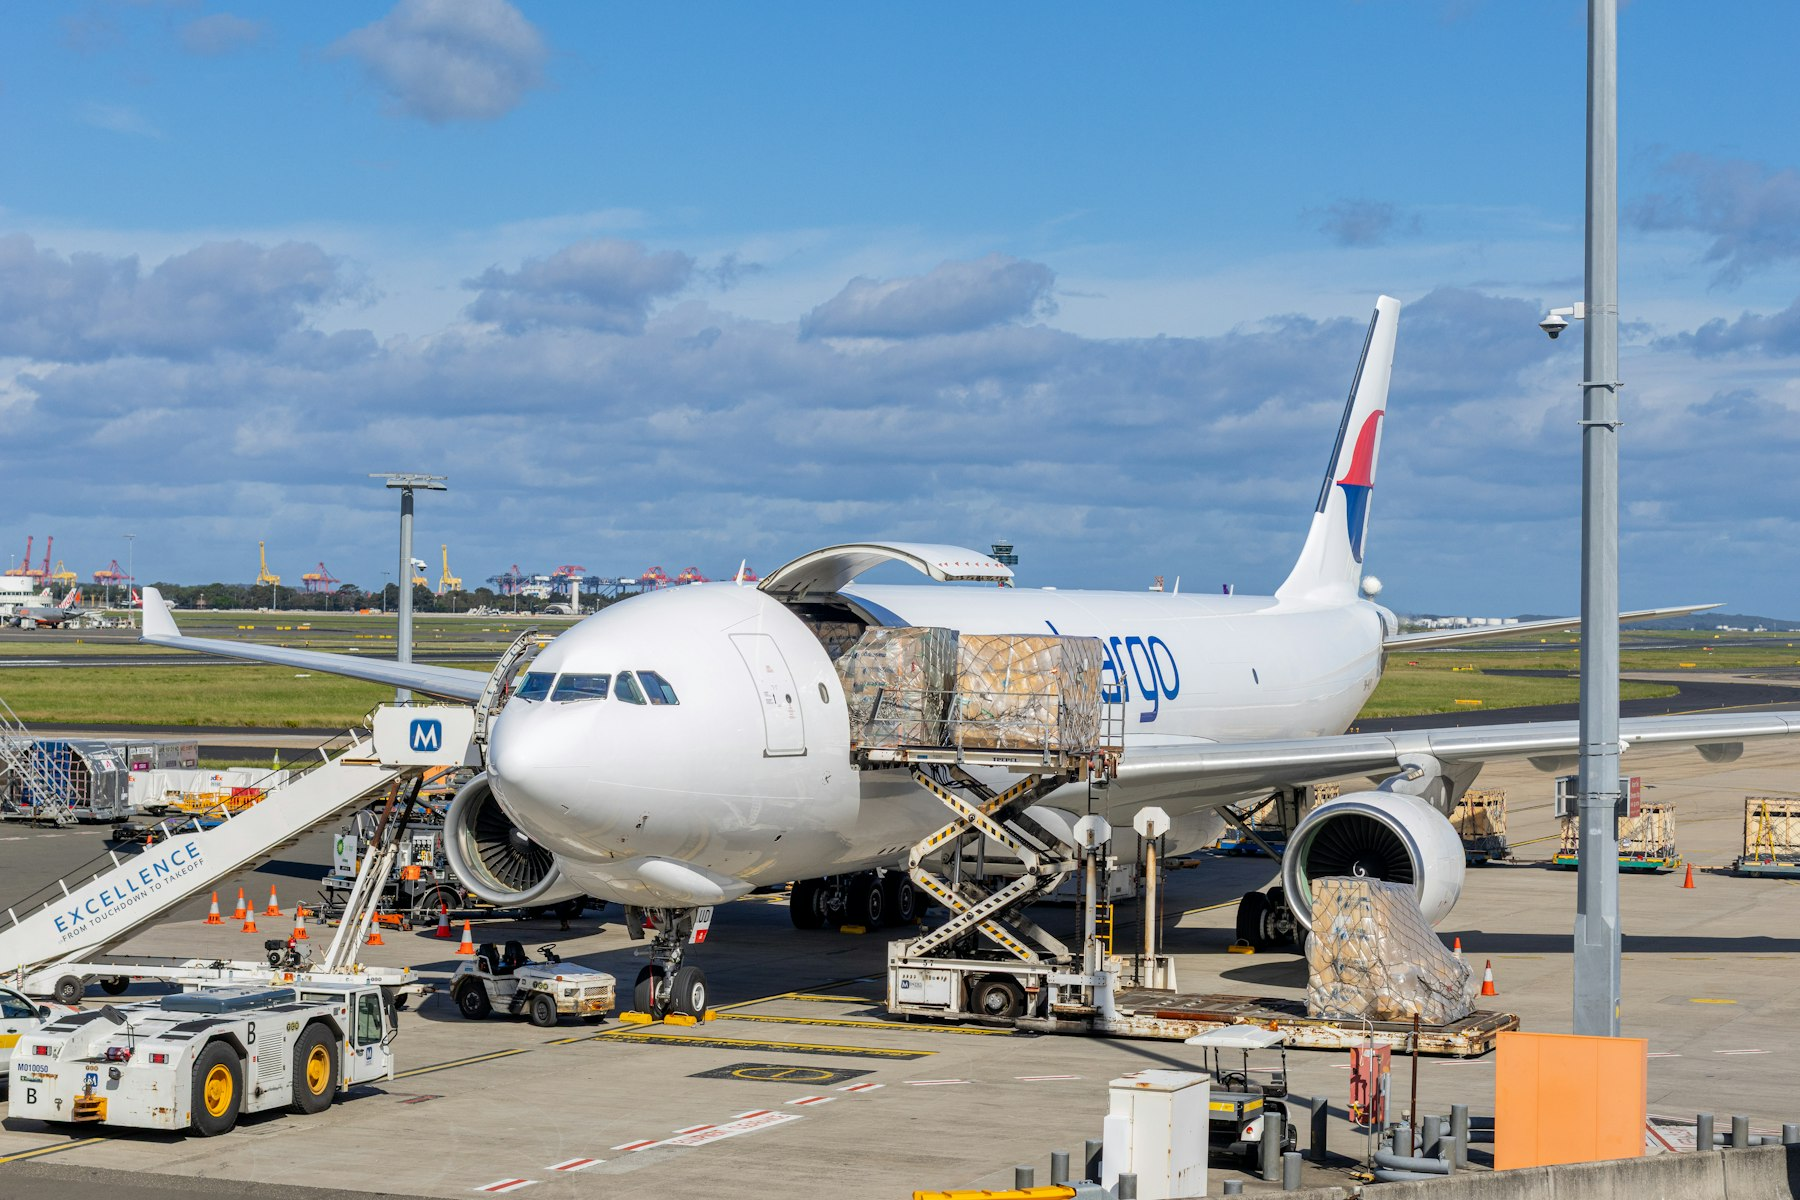
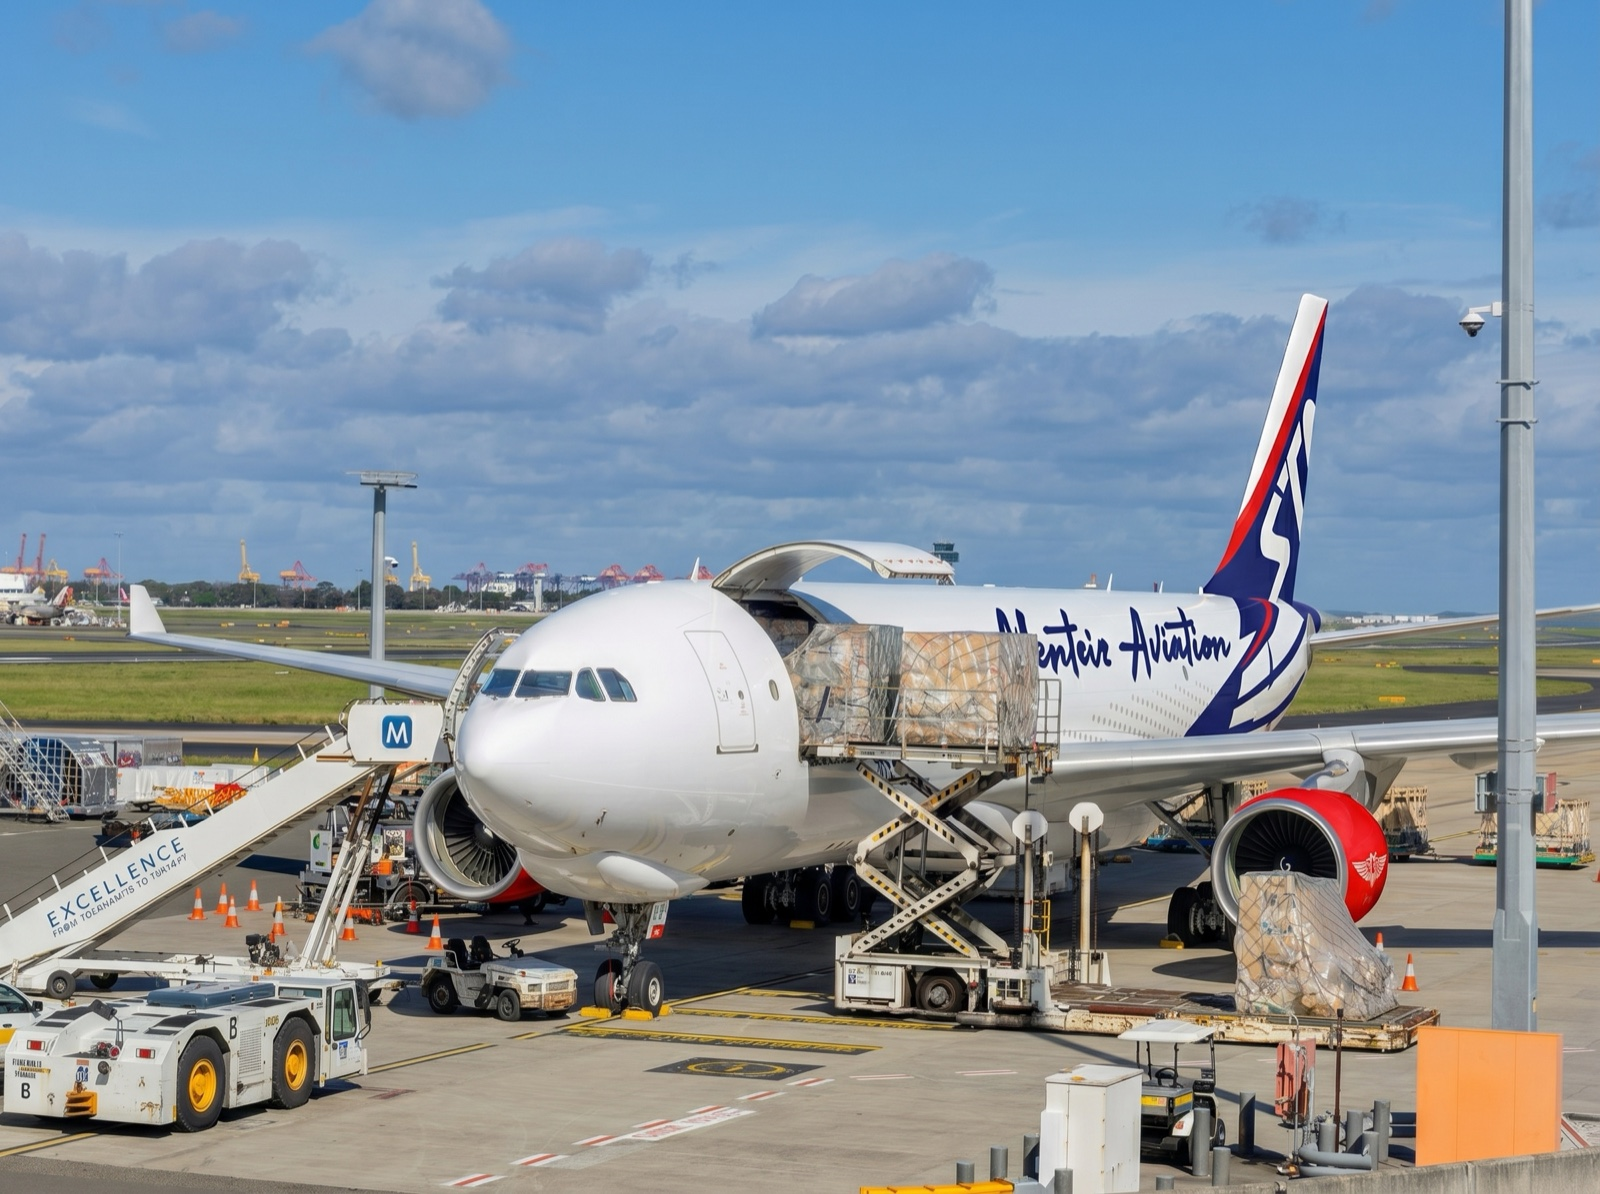
About: update hero to Menteiz freighter cargo-loading photo

diff --git a/about.html b/about.html
@@ -87,7 +87,7 @@
         <span class="ap-hero__corner ap-hero__corner--tr"></span>
         <span class="ap-hero__corner ap-hero__corner--bl"></span>
         <span class="ap-hero__corner ap-hero__corner--br"></span>
-        <img src="about-hero.jpg" alt="Cargo plane being loaded at an airport tarmac" />
+        <img src="about-hero.jpg" alt="Menteiz Aviation freighter being loaded with cargo on the apron" />
         <span class="ap-hero__pin">N 03&deg;08&prime;20&Prime; / E 101&deg;41&prime;50&Prime;</span>
       </div>
     </section>
